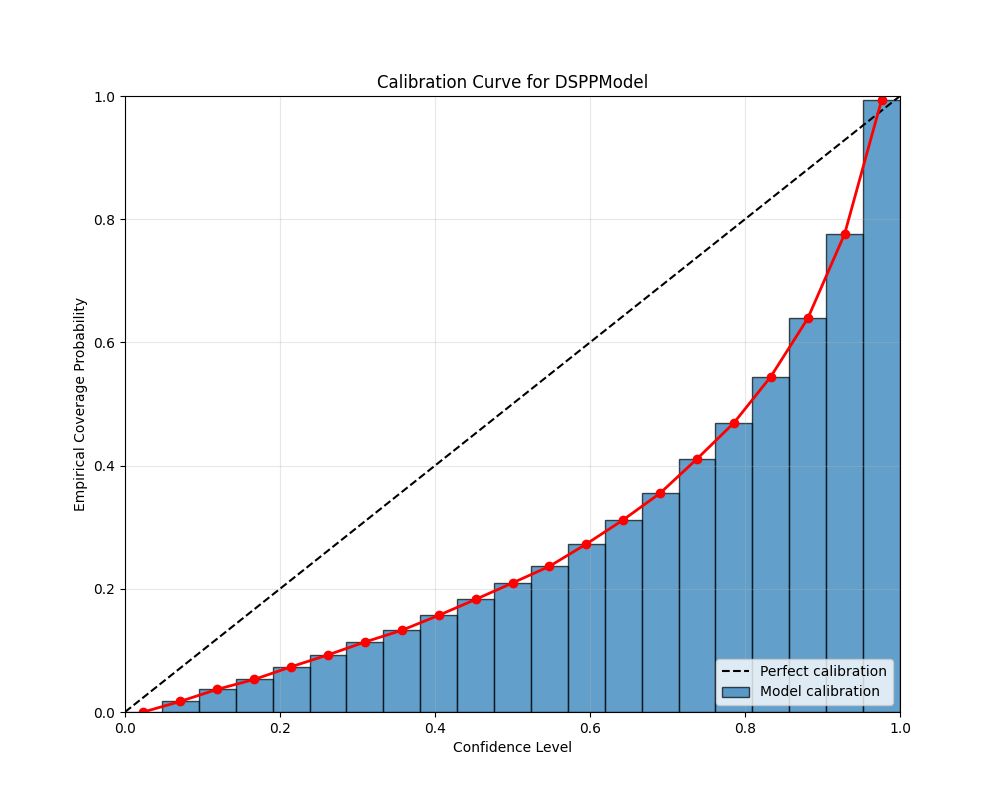
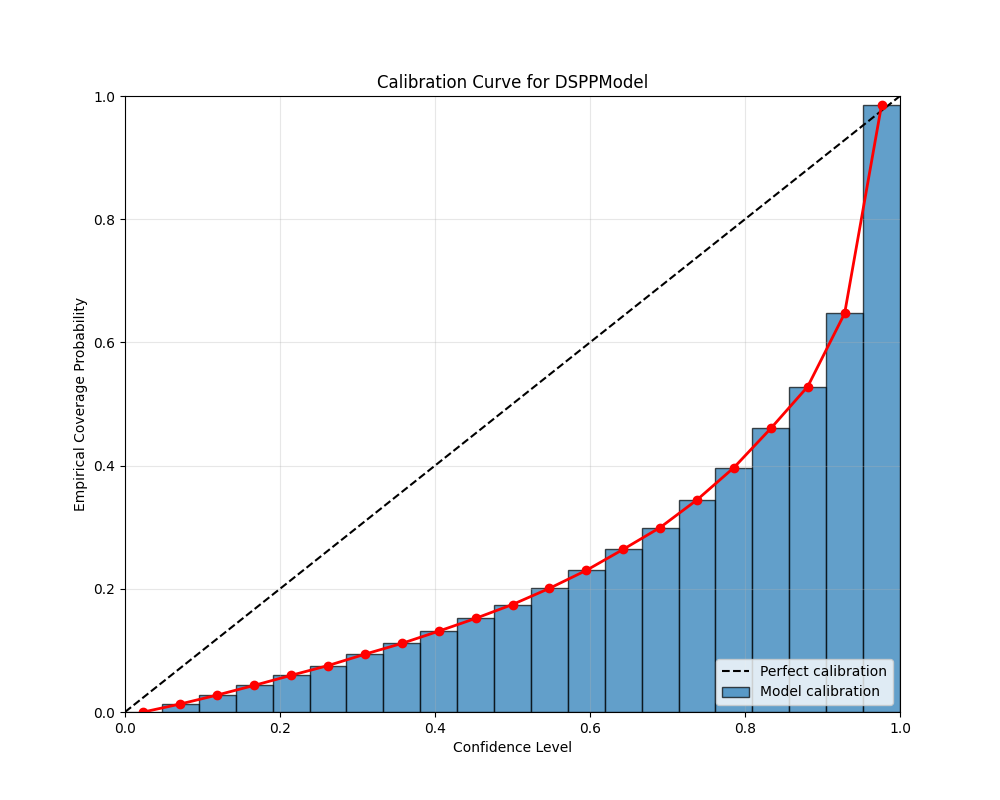
Working hyper-parameter tuning

Changed region(s): [[0.155, 0.125, 0.899, 0.9062]]

diff --git a/xai_gp/utils/training.py b/xai_gp/utils/training.py
@@ -97,19 +97,25 @@ def initialize_model(cfg, input_shape, device):
 
     return model, optimizer
 
-def train_model(model, train_loader, optimizer, cfg):
+def train_model(model, train_loader, optimizer, cfg, best_params=None):
     """Train the model."""
-    num_epochs = cfg.training.num_epochs
+    # Use hyperparameter-optimized values if provided, otherwise use config values
+    num_epochs = best_params.get("num_epochs", cfg.training.num_epochs) if best_params else cfg.training.num_epochs
     print(f"Training for {num_epochs} epochs...")
 
     if isinstance(model, (DeepGPModel, DSPPModel)):
-        beta = cfg.model.get('beta', None)
-        loss = fit_gp(model, train_loader, num_epochs, optimizer, gp_mode=cfg.model.gp_mode, beta=beta)
+        # For GP models, use beta from best_params if available
+        beta = best_params.get("beta", cfg.model.get('beta', None)) if best_params else cfg.model.get('beta', None)
+        gp_mode = best_params.get("gp_mode", cfg.model.gp_mode) if best_params else cfg.model.gp_mode
+        loss = fit_gp(model, train_loader, num_epochs, optimizer, gp_mode=gp_mode, beta=beta)
     else:
         if cfg.data.task_type == "regression":
-            loss = train_ensemble_regression(model, train_loader, num_epochs, cfg.training.learning_rate)
+            # For ensemble models, get learning rate from best_params if available
+            learning_rate = best_params.get("lr", cfg.training.learning_rate) if best_params else cfg.training.learning_rate
+            loss = train_ensemble_regression(model, train_loader, num_epochs, learning_rate)
         elif cfg.data.task_type == "classification":
-            loss = train_ensemble_classification(model, train_loader, num_epochs, cfg.training.learning_rate)
+            learning_rate = best_params.get("lr", cfg.training.learning_rate) if best_params else cfg.training.learning_rate
+            loss = train_ensemble_classification(model, train_loader, num_epochs, learning_rate)
         else:
             raise ValueError(f"Unknown task type: {cfg.data.task_type}. Must be 'regression' or 'classification'.")
         

diff --git a/xai_gp/utils/evaluation.py b/xai_gp/utils/evaluation.py
@@ -86,7 +86,7 @@ def plot_calibration_curve(conf, acc, title="Calibration Curve", relative_save_p
         plt.savefig(save_path)
 
 
-def evaluate_model(model, test_loader, cfg):
+def evaluate_model(model, test_loader, cfg, best_params=None):
     """Evaluate the model's performance."""
     model.eval()
     all_means = []
@@ -125,9 +125,15 @@ def evaluate_model(model, test_loader, cfg):
         
         print(f"Calibration error: {calibration_error:.4f}")
 
-        plot_title = f"Calibration Curve for {cfg.model.type}"
-        plot_calibration_curve(conf, acc, title=plot_title,
-                               relative_save_path=f'calibration_{cfg.model.type}_{cfg.data.name}.png')
+        # For the plot title, include information about whether we're using optimized parameters
+        model_name = cfg.model.type
+        
+        # Only plot for optimized values
+        if best_params:
+            plot_title = f"Calibration Curve for {model_name}"
+            save_path = f'calibration_{model_name}_{cfg.data.name}.png'
+            
+            plot_calibration_curve(conf, acc, title=plot_title, relative_save_path=save_path)
         
         metrics = {
             'mae': mae,

diff --git a/xai_gp/main.py b/xai_gp/main.py
@@ -33,8 +33,8 @@ def main(cfg: DictConfig):
         
         # Train final model with best parameters
         print("\nTraining final model with best parameters...")
-        train_model(model, train_loader, optimizer, cfg)
-        evaluate_model(model, test_loader, cfg)
+        train_model(model, train_loader, optimizer, cfg, best_params=best_params)
+        evaluate_model(model, test_loader, cfg, best_params=best_params)
     else:
         # Standard training workflow
         model, optimizer = initialize_model(cfg, input_shape, device)
